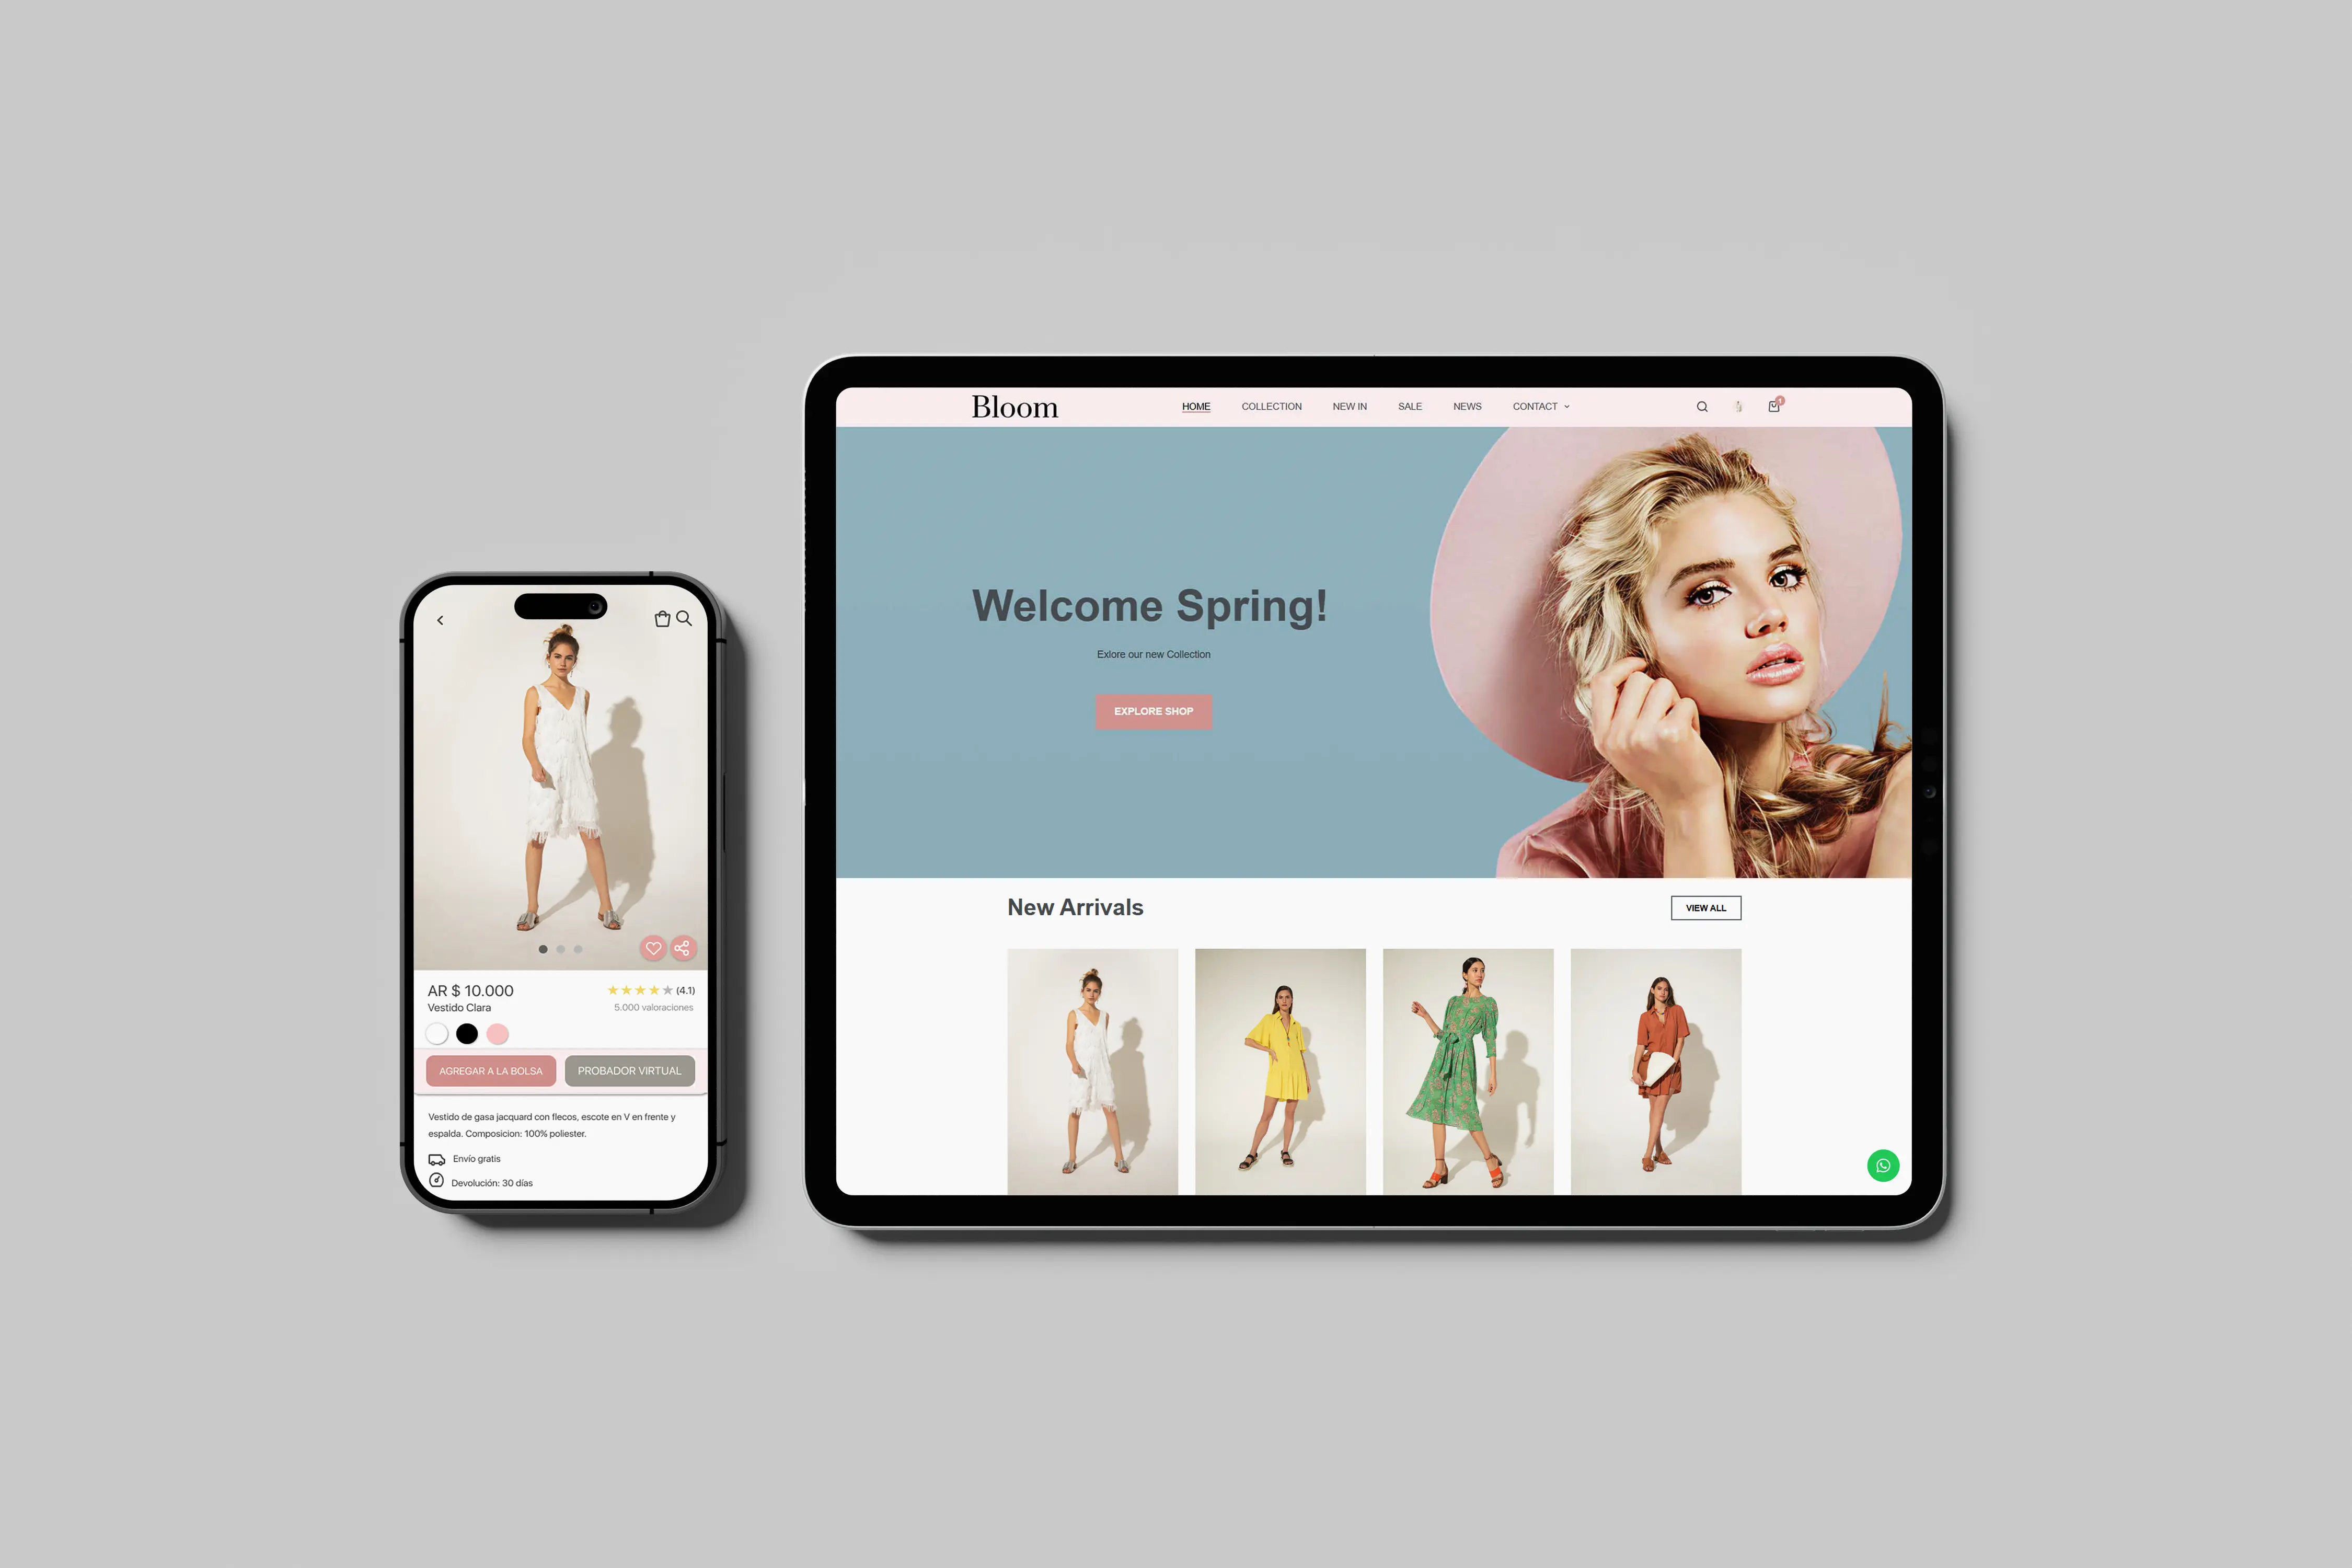
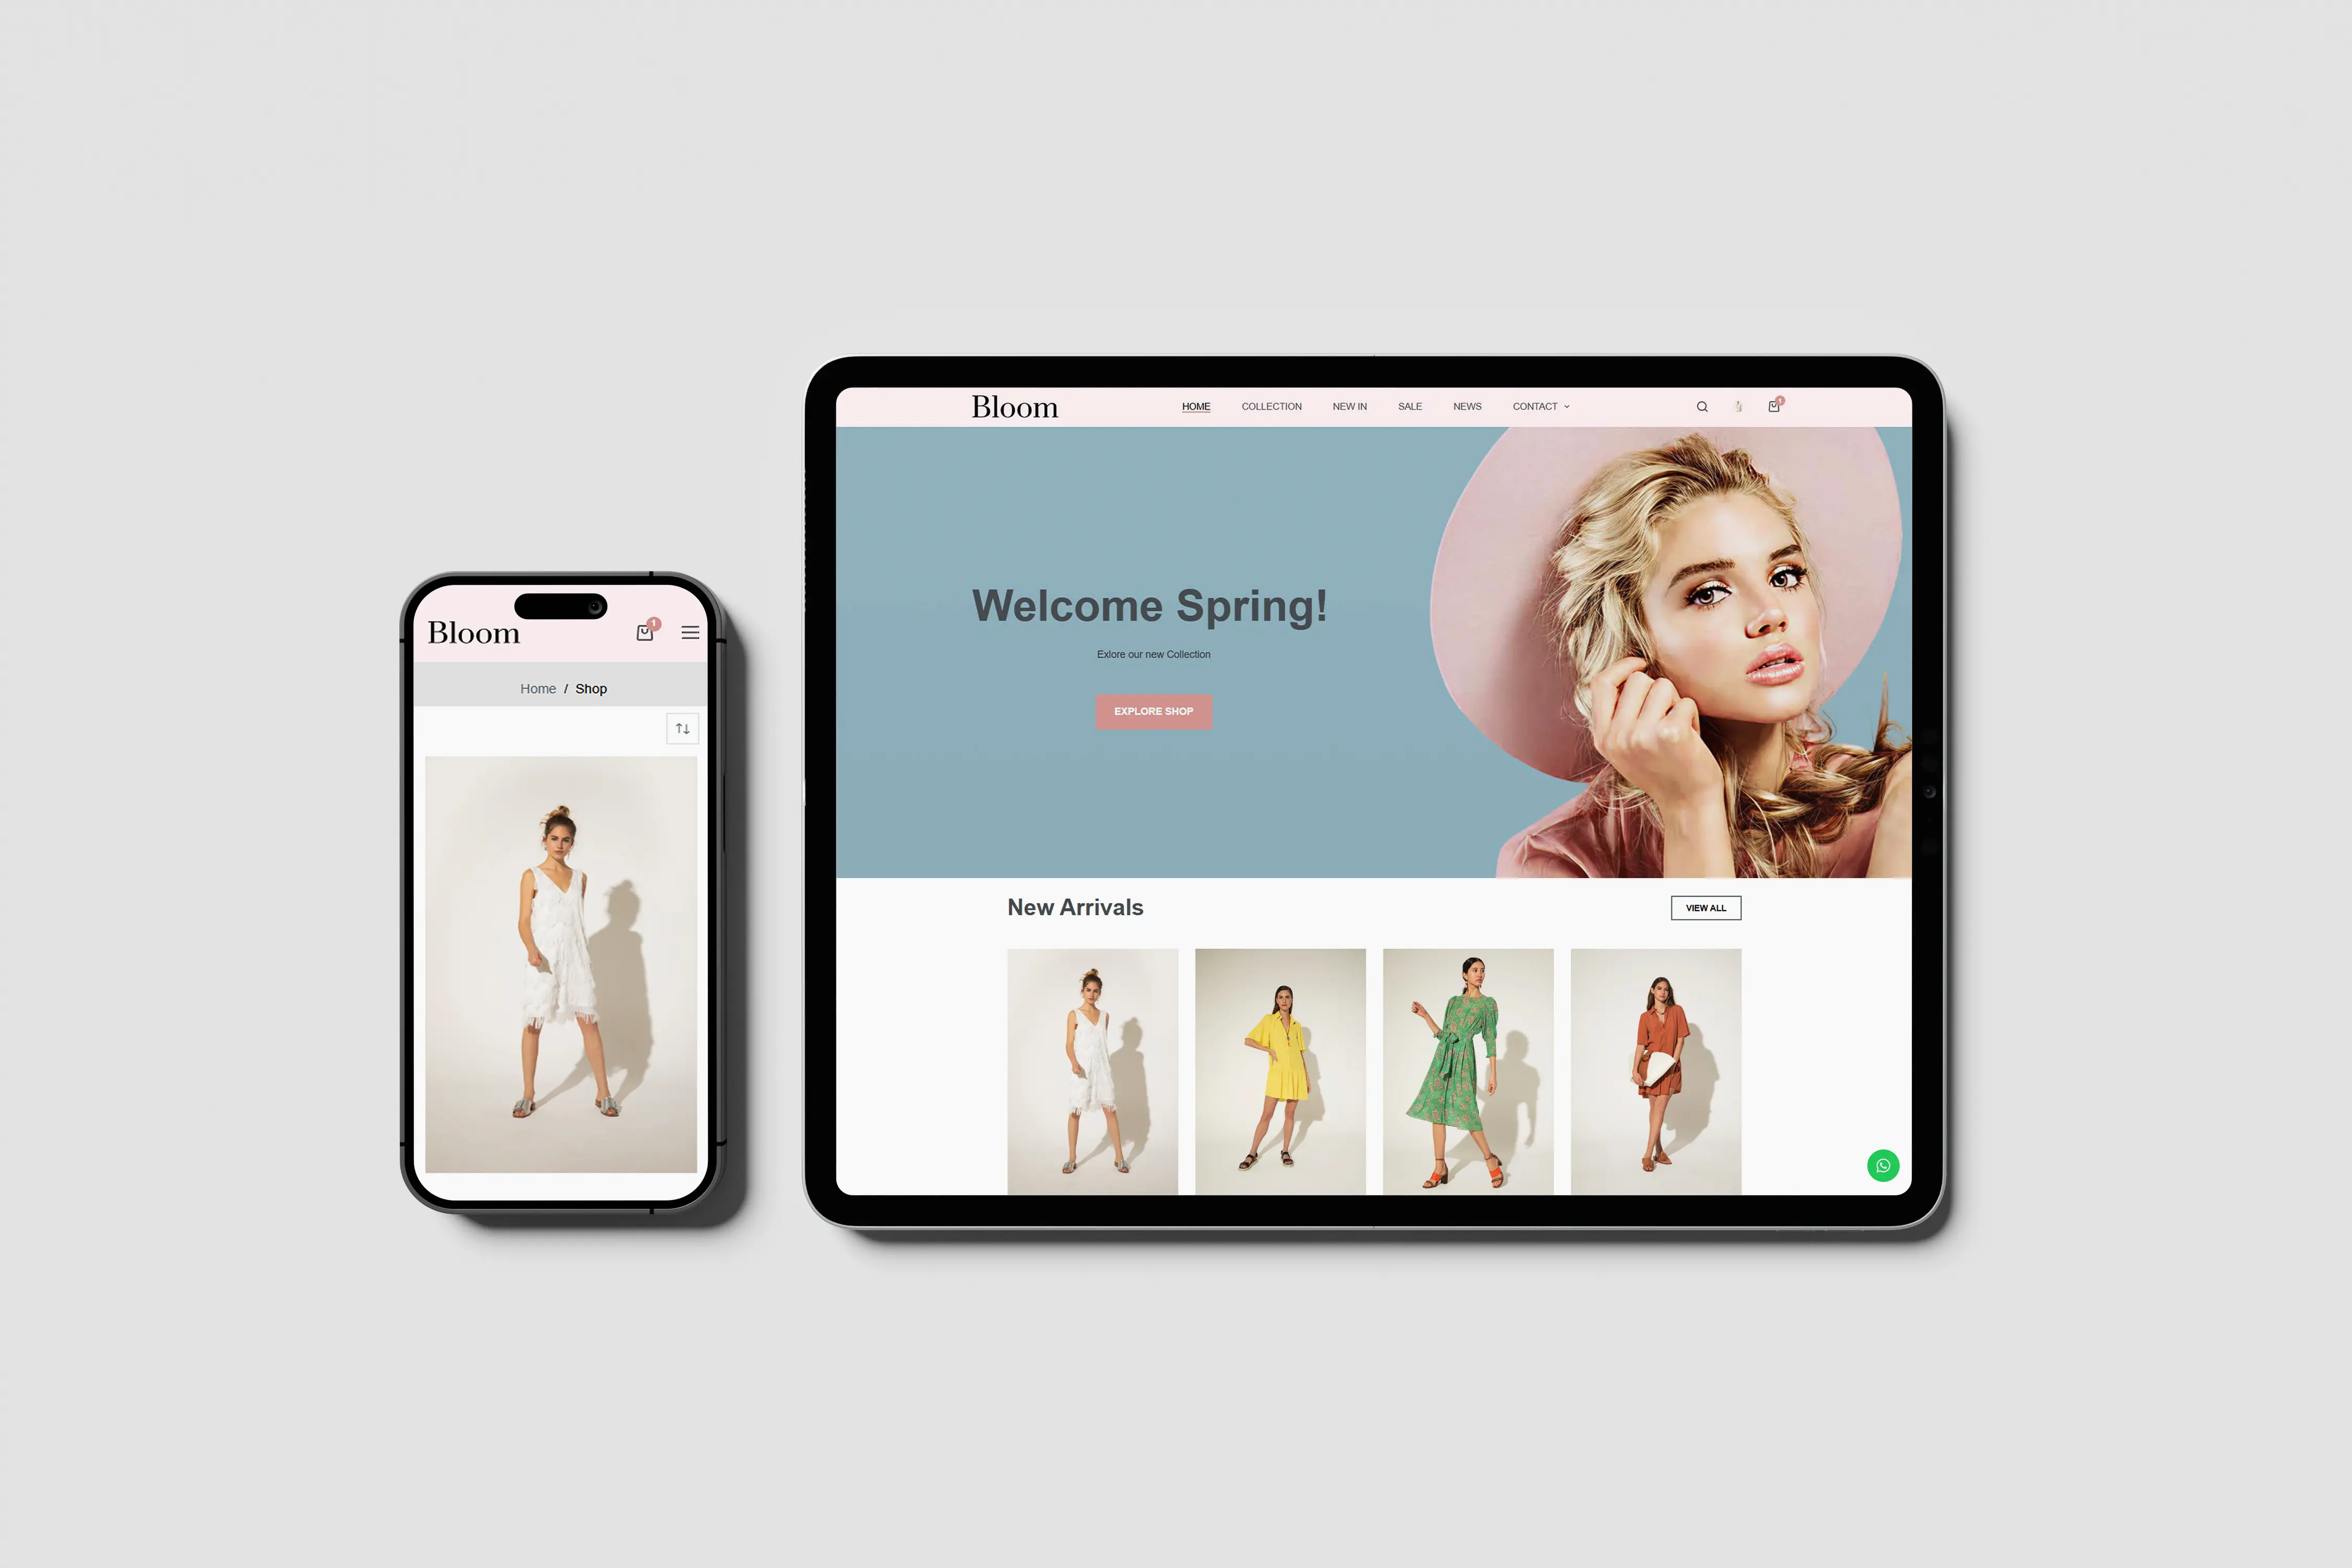
bloom

diff --git a/src/data/Projects.js b/src/data/Projects.js
@@ -31,7 +31,13 @@ import Portada_HCIC from '../assets/images/Campañas/Portada_HCIC.webp';
 
 // Links Foto 1
 import DigitalVector1 from '../assets/images/Web/Galeria/DigitalVector1.webp';
+import DigitalVector2 from '../assets/images/Web/Galeria/DigitalVector2.webp';
+import DigitalVector3 from '../assets/images/Web/Galeria/DigitalVector3.webp';
+
 import Bloom1 from '../assets/images/Web/Galeria/Bloom1.webp';
+import Bloom2 from '../assets/images/Web/Galeria/Bloom2.jpeg';
+import Bloom3 from '../assets/images/Web/Galeria/Bloom3.webp';
+
 import Fanfiction1 from '../assets/images/Web/Galeria/Fanfiction1.webp';
 import Payslip1 from '../assets/images/Web/Galeria/Payslip1.webp';
 import SweetBlossom1 from '../assets/images/Web/Galeria/SweetBlossom1.webp';
@@ -57,10 +63,6 @@ import DrupalCon1 from '../assets/images/Campañas/Galeria/DrupalCon1.webp';
 import WID1 from '../assets/images/Campañas/Galeria/WID1.webp';
 import STC1 from '../assets/images/Campañas/Galeria/STC1.webp';
 import HCIC1 from '../assets/images/Campañas/Galeria/HCIC1.webp';
-
-// Links Foto 4
-import DigitalVector2 from '../assets/images/Web/Galeria/DigitalVector2.webp';
-import DigitalVector3 from '../assets/images/Web/Galeria/DigitalVector3.webp';
 
 export const projects = [
   // --- WEB ---
@@ -116,7 +118,7 @@ export const projects = [
       { label: "Check-out Speed", value: "1.2s" },
     ],
     solution: "Se implementó un diseño basado en espacios en blanco generosos y una paleta cromática neutra para resaltar el producto. Optimizamos el flujo de compra mediante una navegación táctil intuitiva, selectores de color dinámicos y un catálogo modular que permite una visualización clara y rápida de las colecciones.",
-    gallery: [Bloom1, Bloom1, Bloom1]
+    gallery: [Bloom1, Bloom2, Bloom3]
   },
   {
     id: 3,